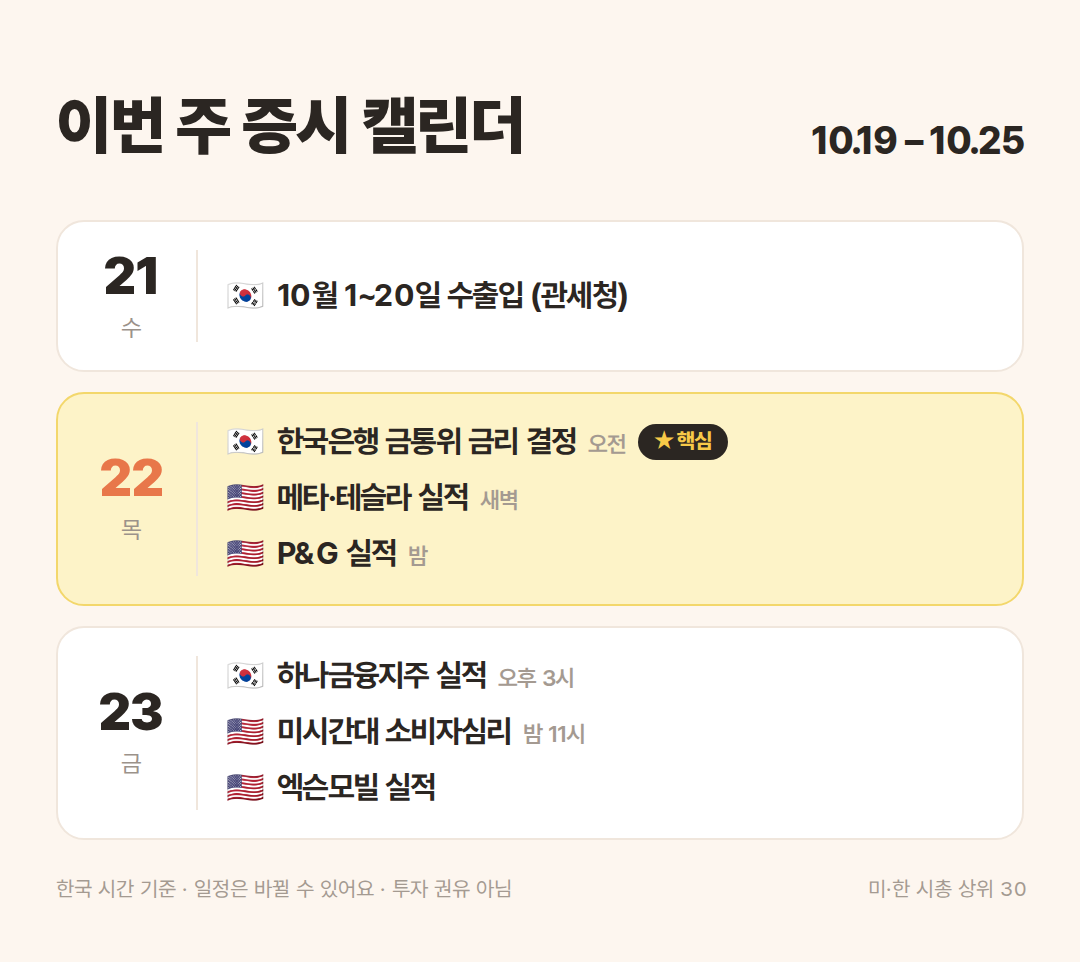
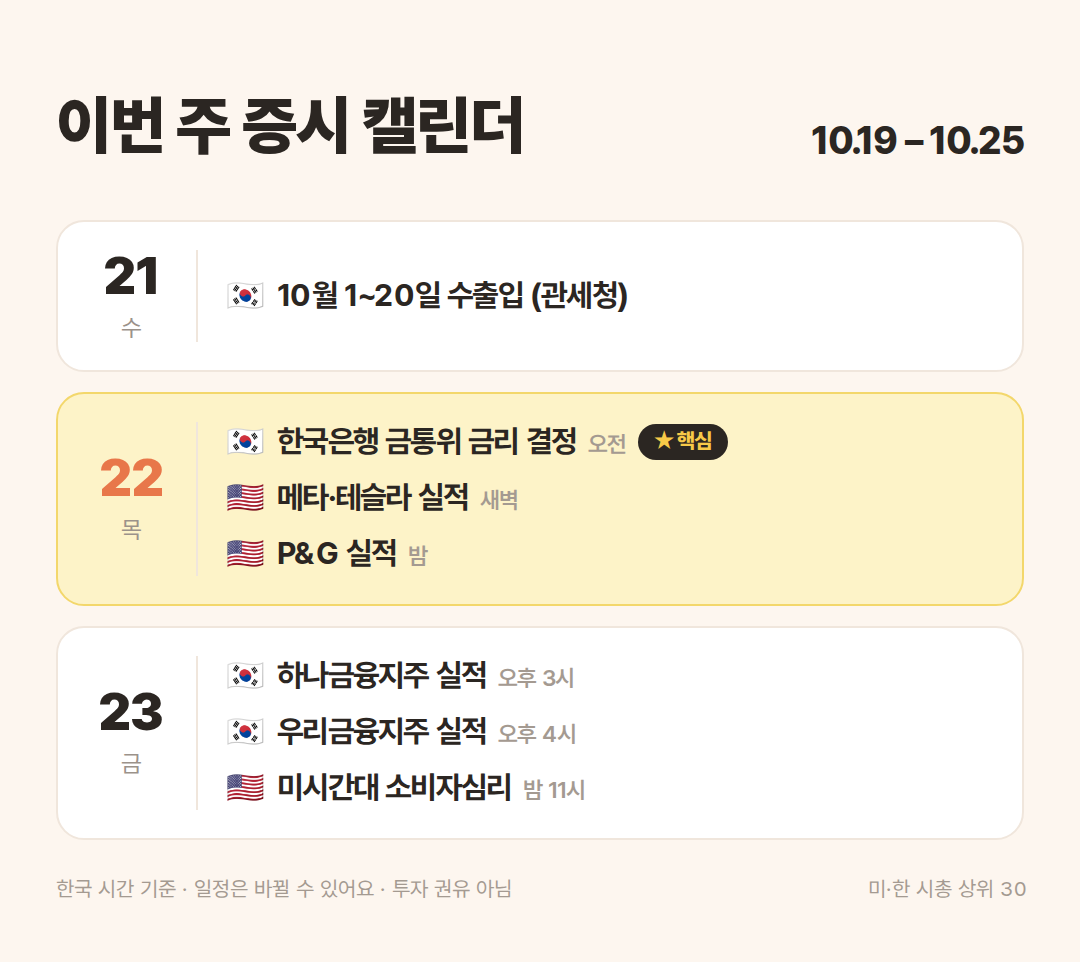
캘린더 갱신 2026-10-21

Changed region(s): [[0.2139, 0.7484, 0.55, 0.842]]

diff --git a/docs/2026-10-19/index.html b/docs/2026-10-19/index.html
@@ -46,16 +46,16 @@ tr.out{color:var(--sub)}
 </style></head><body>
 <div id="card">
 <div class="head"><h1>이번 주 증시 캘린더</h1><div class="range">10.19 – 10.25</div></div>
-<a class="card" href="#d2026-10-21"><div class="day"><div class="dn">21</div><div class="dw">수</div></div><div class="evs"><div class="ev"><span class="flag">🇰🇷</span><span class="ti">10월 1~20일 수출입 (관세청)</span></div></div></a><a class="card hot" href="#d2026-10-22"><div class="day"><div class="dn">22</div><div class="dw">목</div></div><div class="evs"><div class="ev"><span class="flag">🇰🇷</span><span class="ti">한국은행 금통위 금리 결정</span><span class="t">오전</span><span class="badge">★ 핵심</span></div><div class="ev"><span class="flag">🇺🇸</span><span class="ti">메타·테슬라 실적</span><span class="t">새벽</span></div><div class="ev"><span class="flag">🇺🇸</span><span class="ti">P&amp;G 실적</span><span class="t">밤</span></div></div></a><a class="card" href="#d2026-10-23"><div class="day"><div class="dn">23</div><div class="dw">금</div></div><div class="evs"><div class="ev"><span class="flag">🇰🇷</span><span class="ti">하나금융지주 실적</span><span class="t">오후 3시</span></div><div class="ev"><span class="flag">🇺🇸</span><span class="ti">미시간대 소비자심리</span><span class="t">밤 11시</span></div><div class="ev"><span class="flag">🇺🇸</span><span class="ti">엑슨모빌 실적</span></div></div></a>
+<a class="card" href="#d2026-10-21"><div class="day"><div class="dn">21</div><div class="dw">수</div></div><div class="evs"><div class="ev"><span class="flag">🇰🇷</span><span class="ti">10월 1~20일 수출입 (관세청)</span></div></div></a><a class="card hot" href="#d2026-10-22"><div class="day"><div class="dn">22</div><div class="dw">목</div></div><div class="evs"><div class="ev"><span class="flag">🇰🇷</span><span class="ti">한국은행 금통위 금리 결정</span><span class="t">오전</span><span class="badge">★ 핵심</span></div><div class="ev"><span class="flag">🇺🇸</span><span class="ti">메타·테슬라 실적</span><span class="t">새벽</span></div><div class="ev"><span class="flag">🇺🇸</span><span class="ti">P&amp;G 실적</span><span class="t">밤</span></div></div></a><a class="card" href="#d2026-10-23"><div class="day"><div class="dn">23</div><div class="dw">금</div></div><div class="evs"><div class="ev"><span class="flag">🇰🇷</span><span class="ti">하나금융지주 실적</span><span class="t">오후 3시</span></div><div class="ev"><span class="flag">🇰🇷</span><span class="ti">우리금융지주 실적</span><span class="t">오후 4시</span></div><div class="ev"><span class="flag">🇺🇸</span><span class="ti">미시간대 소비자심리</span><span class="t">밤 11시</span></div></div></a>
 <div class="foot"><span>한국 시간 기준 · 일정은 바뀔 수 있어요 · 투자 권유 아님</span><span>미·한 시총 상위 30</span></div>
 </div>
 <main>
-<section id="d2026-10-21"><h2>10월 21일 (수)</h2><div class="row"><span class="flag">🇰🇷</span><div class="rb"><div class="rt">10월 1~20일 수출입 (관세청)</div><div class="rd">정기 발표일 규칙으로 계산 (공휴일은 반영 안 됨)</div></div><a class="src" href="https://www.customs.go.kr" target="_blank" rel="noopener">원문 ↗</a></div></section><section id="d2026-10-22"><h2>10월 22일 (목)</h2><div class="row"><span class="flag">🇰🇷</span><div class="rb"><div class="rt">한국은행 금통위 금리 결정 <span class="t">오전</span> <span class="badge">★ 핵심</span></div><div class="rd">통화정책방향 결정 후 오전 11시 10분 총재 기자간담회</div></div><a class="src" href="https://www.bok.or.kr/portal/main/main.do" target="_blank" rel="noopener">원문 ↗</a></div><div class="row"><span class="flag">🇺🇸</span><div class="rb"><div class="rt">메타 실적 <span class="t">새벽</span></div><div class="rd">미국 장 마감 후 · EPS 예상 $6.00 · 매출 예상 $64.7B</div></div><a class="src" href="https://www.nasdaq.com/market-activity/stocks/meta/earnings" target="_blank" rel="noopener">원문 ↗</a></div><div class="row"><span class="flag">🇺🇸</span><div class="rb"><div class="rt">테슬라 실적 <span class="t">새벽</span></div><div class="rd">미국 장 마감 후 · EPS 예상 $0.44 · 매출 예상 $28.4B</div></div><a class="src" href="https://www.nasdaq.com/market-activity/stocks/tsla/earnings" target="_blank" rel="noopener">원문 ↗</a></div><div class="row"><span class="flag">🇺🇸</span><div class="rb"><div class="rt">P&amp;G 실적 <span class="t">밤</span></div><div class="rd">미국 장 시작 전 · EPS 예상 $1.94 · 매출 예상 $23.5B</div></div><a class="src" href="https://www.nasdaq.com/market-activity/stocks/pg/earnings" target="_blank" rel="noopener">원문 ↗</a></div></section><section id="d2026-10-23"><h2>10월 23일 (금)</h2><div class="row"><span class="flag">🇰🇷</span><div class="rb"><div class="rt">하나금융지주 실적 <span class="t">오후 3시</span></div><div class="rd">2026년도 3분기 경영실적 발표 · 인터넷 영상 생중계를 통한 경영실적 발표 및 질의응답</div></div><a class="src" href="https://dart.fss.or.kr/dsaf001/main.do?rcpNo=20261015800202" target="_blank" rel="noopener">원문 ↗</a></div><div class="row"><span class="flag">🇺🇸</span><div class="rb"><div class="rt">미시간대 소비자심리 <span class="t">밤 11시</span></div><div class="rd">미 동부 10:00 발표 · Surveys of Consumers</div></div><a class="src" href="https://fred.stlouisfed.org/release?rid=91" target="_blank" rel="noopener">원문 ↗</a></div><div class="row"><span class="flag">🇺🇸</span><div class="rb"><div class="rt">엑슨모빌 실적</div><div class="rd">시간 미정 · EPS 예상 $4.11 · 매출 예상 $103.5B</div></div><a class="src" href="https://www.nasdaq.com/market-activity/stocks/xom/earnings" target="_blank" rel="noopener">원문 ↗</a></div></section>
+<section id="d2026-10-21"><h2>10월 21일 (수)</h2><div class="row"><span class="flag">🇰🇷</span><div class="rb"><div class="rt">10월 1~20일 수출입 (관세청)</div><div class="rd">정기 발표일 규칙으로 계산 (공휴일은 반영 안 됨)</div></div><a class="src" href="https://www.customs.go.kr" target="_blank" rel="noopener">원문 ↗</a></div></section><section id="d2026-10-22"><h2>10월 22일 (목)</h2><div class="row"><span class="flag">🇰🇷</span><div class="rb"><div class="rt">한국은행 금통위 금리 결정 <span class="t">오전</span> <span class="badge">★ 핵심</span></div><div class="rd">통화정책방향 결정 후 오전 11시 10분 총재 기자간담회</div></div><a class="src" href="https://www.bok.or.kr/portal/main/main.do" target="_blank" rel="noopener">원문 ↗</a></div><div class="row"><span class="flag">🇺🇸</span><div class="rb"><div class="rt">메타 실적 <span class="t">새벽</span></div><div class="rd">미국 장 마감 후 · EPS 예상 $6.00 · 매출 예상 $64.7B</div></div><a class="src" href="https://www.nasdaq.com/market-activity/stocks/meta/earnings" target="_blank" rel="noopener">원문 ↗</a></div><div class="row"><span class="flag">🇺🇸</span><div class="rb"><div class="rt">테슬라 실적 <span class="t">새벽</span></div><div class="rd">미국 장 마감 후 · EPS 예상 $0.44 · 매출 예상 $28.4B</div></div><a class="src" href="https://www.nasdaq.com/market-activity/stocks/tsla/earnings" target="_blank" rel="noopener">원문 ↗</a></div><div class="row"><span class="flag">🇺🇸</span><div class="rb"><div class="rt">P&amp;G 실적 <span class="t">밤</span></div><div class="rd">미국 장 시작 전 · EPS 예상 $1.94 · 매출 예상 $23.5B</div></div><a class="src" href="https://www.nasdaq.com/market-activity/stocks/pg/earnings" target="_blank" rel="noopener">원문 ↗</a></div></section><section id="d2026-10-23"><h2>10월 23일 (금)</h2><div class="row"><span class="flag">🇰🇷</span><div class="rb"><div class="rt">하나금융지주 실적 <span class="t">오후 3시</span></div><div class="rd">2026년도 3분기 경영실적 발표 · 인터넷 영상 생중계를 통한 경영실적 발표 및 질의응답</div></div><a class="src" href="https://dart.fss.or.kr/dsaf001/main.do?rcpNo=20261015800202" target="_blank" rel="noopener">원문 ↗</a></div><div class="row"><span class="flag">🇰🇷</span><div class="rb"><div class="rt">우리금융지주 실적 <span class="t">오후 4시</span></div><div class="rd">2026년 3분기 경영실적 발표 · 오디오 인터넷 생중계 및 컨퍼런스콜을 통한 경영실적 발</div></div><a class="src" href="https://dart.fss.or.kr/dsaf001/main.do?rcpNo=20261020800482" target="_blank" rel="noopener">원문 ↗</a></div><div class="row"><span class="flag">🇺🇸</span><div class="rb"><div class="rt">미시간대 소비자심리 <span class="t">밤 11시</span></div><div class="rd">미 동부 10:00 발표 · Surveys of Consumers</div></div><a class="src" href="https://fred.stlouisfed.org/release?rid=91" target="_blank" rel="noopener">원문 ↗</a></div></section>
 <h3>백데이터</h3>
-<details><summary>수집 현황</summary><div class="tw"><table><tr><th>소스</th><th>상태</th><th>건수</th><th>오류</th></tr><tr><td>미국 시총 순위 (Finnhub)</td><td>✅</td><td>63</td><td class="err"></td></tr><tr><td>한국 시총 순위 (네이버)</td><td>✅</td><td>30</td><td class="err"></td></tr><tr><td>미국 실적 (Finnhub)</td><td>✅</td><td>15</td><td class="err"></td></tr><tr><td>한국 실적 (DART)</td><td>✅</td><td>1</td><td class="err"></td></tr><tr><td>미국 경제지표 (FRED)</td><td>✅</td><td>1</td><td class="err"></td></tr><tr><td>한국 수출입 (규칙)</td><td>✅</td><td>1</td><td class="err"></td></tr><tr><td>고정 일정 (events.json)</td><td>✅</td><td>1</td><td class="err"></td></tr></table></div></details>
-<details><summary>기준에서 빠진 실적 일정 (11건)</summary><div class="tw"><table><tr><th>날짜</th><th>일정</th><th>이유</th></tr><tr><td>10-19</td><td>GE에어로스페이스 실적</td><td>미국 시총 35위</td></tr><tr><td>10-20</td><td>필립모리스 실적</td><td>미국 시총 36위</td></tr><tr><td>10-20</td><td>RTX 실적</td><td>미국 시총 40위</td></tr><tr><td>10-21</td><td>넷플릭스 실적</td><td>미국 시총 38위</td></tr><tr><td>10-21</td><td>애보트 실적</td><td>미국 시총 52위</td></tr><tr><td>10-21</td><td>AT&amp;T 실적</td><td>미국 시총 55위</td></tr><tr><td>10-21</td><td>인튜이티브서지컬 실적</td><td>미국 시총 57위</td></tr><tr><td>10-22</td><td>램리서치 실적</td><td>미국 시총 32위</td></tr><tr><td>10-22</td><td>IBM 실적</td><td>미국 시총 45위</td></tr><tr><td>10-22</td><td>블랙스톤 실적</td><td>미국 시총 60위</td></tr><tr><td>10-23</td><td>아메리칸익스프레스 실적</td><td>미국 시총 47위</td></tr></table></div></details>
-<details><summary>미국 시총 순위 (후보 63개 중 상위 30)</summary><div class="tw"><table><tr><th>#</th><th>종목</th><th>티커</th><th>시총</th></tr><tr class="in"><td>1</td><td>엔비디아</td><td>NVDA</td><td>$5,232B</td></tr><tr class="in"><td>2</td><td>애플</td><td>AAPL</td><td>$5,005B</td></tr><tr class="in"><td>3</td><td>알파벳</td><td>GOOGL</td><td>$4,209B</td></tr><tr class="in"><td>4</td><td>마이크로소프트</td><td>MSFT</td><td>$3,962B</td></tr><tr class="in"><td>5</td><td>아마존</td><td>AMZN</td><td>$2,831B</td></tr><tr class="in"><td>6</td><td>TSMC</td><td>TSM</td><td>$2,180B</td></tr><tr class="in"><td>7</td><td>메타</td><td>META</td><td>$1,797B</td></tr><tr class="in"><td>8</td><td>브로드컴</td><td>AVGO</td><td>$1,597B</td></tr><tr class="in"><td>9</td><td>테슬라</td><td>TSLA</td><td>$1,454B</td></tr><tr class="in"><td>10</td><td>일라이릴리</td><td>LLY</td><td>$1,168B</td></tr><tr class="in"><td>11</td><td>버크셔해서웨이</td><td>BRK.B</td><td>$1,140B</td></tr><tr class="in"><td>12</td><td>마이크론</td><td>MU</td><td>$1,024B</td></tr><tr class="in"><td>13</td><td>JP모건</td><td>JPM</td><td>$887B</td></tr><tr class="in"><td>14</td><td>월마트</td><td>WMT</td><td>$884B</td></tr><tr class="in"><td>15</td><td>AMD</td><td>AMD</td><td>$878B</td></tr><tr class="in"><td>16</td><td>비자</td><td>V</td><td>$750B</td></tr><tr class="in"><td>17</td><td>엑슨모빌</td><td>XOM</td><td>$651B</td></tr><tr class="in"><td>18</td><td>ASML</td><td>ASML</td><td>$639B</td></tr><tr class="in"><td>19</td><td>존슨앤드존슨</td><td>JNJ</td><td>$612B</td></tr><tr class="in"><td>20</td><td>마스터카드</td><td>MA</td><td>$540B</td></tr><tr class="in"><td>21</td><td>애브비</td><td>ABBV</td><td>$500B</td></tr><tr class="in"><td>22</td><td>인텔</td><td>INTC</td><td>$486B</td></tr><tr class="in"><td>23</td><td>팔란티어</td><td>PLTR</td><td>$467B</td></tr><tr class="in"><td>24</td><td>셰브론</td><td>CVX</td><td>$443B</td></tr><tr class="in"><td>25</td><td>코스트코</td><td>COST</td><td>$441B</td></tr><tr class="in"><td>26</td><td>시스코</td><td>CSCO</td><td>$420B</td></tr><tr class="in"><td>27</td><td>코카콜라</td><td>KO</td><td>$402B</td></tr><tr class="in"><td>28</td><td>오라클</td><td>ORCL</td><td>$392B</td></tr><tr class="in"><td>29</td><td>P&amp;G</td><td>PG</td><td>$366B</td></tr><tr class="in"><td>30</td><td>유나이티드헬스</td><td>UNH</td><td>$365B</td></tr><tr class="out"><td>31</td><td>뱅크오브아메리카</td><td>BAC</td><td>$349B</td></tr><tr class="out"><td>32</td><td>램리서치</td><td>LRCX</td><td>$341B</td></tr><tr class="out"><td>33</td><td>캐터필러</td><td>CAT</td><td>$334B</td></tr><tr class="out"><td>34</td><td>어플라이드머티어리얼즈</td><td>AMAT</td><td>$328B</td></tr><tr class="out"><td>35</td><td>GE에어로스페이스</td><td>GE</td><td>$323B</td></tr><tr class="out"><td>36</td><td>필립모리스</td><td>PM</td><td>$313B</td></tr><tr class="out"><td>37</td><td>홈디포</td><td>HD</td><td>$309B</td></tr><tr class="out"><td>38</td><td>넷플릭스</td><td>NFLX</td><td>$291B</td></tr><tr class="out"><td>39</td><td>모건스탠리</td><td>MS</td><td>$280B</td></tr><tr class="out"><td>40</td><td>RTX</td><td>RTX</td><td>$259B</td></tr><tr class="out"><td>41</td><td>웰스파고</td><td>WFC</td><td>$258B</td></tr><tr class="out"><td>42</td><td>골드만삭스</td><td>GS</td><td>$255B</td></tr><tr class="out"><td>43</td><td>린데</td><td>LIN</td><td>$232B</td></tr><tr class="out"><td>44</td><td>아리스타</td><td>ANET</td><td>$231B</td></tr><tr class="out"><td>45</td><td>IBM</td><td>IBM</td><td>$223B</td></tr><tr class="out"><td>46</td><td>KLA</td><td>KLAC</td><td>$217B</td></tr><tr class="out"><td>47</td><td>아메리칸익스프레스</td><td>AXP</td><td>$214B</td></tr><tr class="out"><td>48</td><td>세일즈포스</td><td>CRM</td><td>$200B</td></tr><tr class="out"><td>49</td><td>디즈니</td><td>DIS</td><td>$189B</td></tr><tr class="out"><td>50</td><td>퀄컴</td><td>QCOM</td><td>$185B</td></tr><tr class="out"><td>51</td><td>펩시코</td><td>PEP</td><td>$182B</td></tr><tr class="out"><td>52</td><td>애보트</td><td>ABT</td><td>$180B</td></tr><tr class="out"><td>53</td><td>맥도날드</td><td>MCD</td><td>$172B</td></tr><tr class="out"><td>54</td><td>T모바일</td><td>TMUS</td><td>$167B</td></tr><tr class="out"><td>55</td><td>AT&amp;T</td><td>T</td><td>$159B</td></tr><tr class="out"><td>56</td><td>찰스슈왑</td><td>SCHW</td><td>$155B</td></tr><tr class="out"><td>57</td><td>인튜이티브서지컬</td><td>ISRG</td><td>$153B</td></tr><tr class="out"><td>58</td><td>서비스나우</td><td>NOW</td><td>$150B</td></tr><tr class="out"><td>59</td><td>우버</td><td>UBER</td><td>$143B</td></tr><tr class="out"><td>60</td><td>블랙스톤</td><td>BX</td><td>$133B</td></tr><tr class="out"><td>61</td><td>부킹홀딩스</td><td>BKNG</td><td>$122B</td></tr><tr class="out"><td>62</td><td>앱러빈</td><td>APP</td><td>$90B</td></tr><tr class="out"><td>63</td><td>인튜이트</td><td>INTU</td><td>$87B</td></tr></table></div></details>
-<details><summary>한국 시총 상위 30 (보통주)</summary><div class="tw"><table><tr><th>#</th><th>종목</th><th>시장</th><th>시총</th></tr><tr class="in"><td>1</td><td>삼성전자</td><td>KOSPI</td><td>1,242.3조</td></tr><tr class="in"><td>2</td><td>SK하이닉스</td><td>KOSPI</td><td>879.5조</td></tr><tr class="in"><td>3</td><td>LG에너지솔루션</td><td>KOSPI</td><td>98.2조</td></tr><tr class="in"><td>4</td><td>SK스퀘어</td><td>KOSPI</td><td>97.0조</td></tr><tr class="in"><td>5</td><td>삼성전기</td><td>KOSPI</td><td>85.1조</td></tr><tr class="in"><td>6</td><td>삼성바이오로직스</td><td>KOSPI</td><td>65.2조</td></tr><tr class="in"><td>7</td><td>현대차</td><td>KOSPI</td><td>64.3조</td></tr><tr class="in"><td>8</td><td>KB금융</td><td>KOSPI</td><td>57.7조</td></tr><tr class="in"><td>9</td><td>삼성생명</td><td>KOSPI</td><td>47.5조</td></tr><tr class="in"><td>10</td><td>삼성SDI</td><td>KOSPI</td><td>46.7조</td></tr><tr class="in"><td>11</td><td>셀트리온</td><td>KOSPI</td><td>45.9조</td></tr><tr class="in"><td>12</td><td>삼성물산</td><td>KOSPI</td><td>44.4조</td></tr><tr class="in"><td>13</td><td>기아</td><td>KOSPI</td><td>44.0조</td></tr><tr class="in"><td>14</td><td>신한지주</td><td>KOSPI</td><td>43.6조</td></tr><tr class="in"><td>15</td><td>한화에어로스페이스</td><td>KOSPI</td><td>42.9조</td></tr><tr class="in"><td>16</td><td>두산에너빌리티</td><td>KOSPI</td><td>40.5조</td></tr><tr class="in"><td>17</td><td>HD현대중공업</td><td>KOSPI</td><td>34.2조</td></tr><tr class="in"><td>18</td><td>하나금융지주</td><td>KOSPI</td><td>33.6조</td></tr><tr class="in"><td>19</td><td>현대모비스</td><td>KOSPI</td><td>31.5조</td></tr><tr class="in"><td>20</td><td>SK</td><td>KOSPI</td><td>31.1조</td></tr><tr class="in"><td>21</td><td>NAVER</td><td>KOSPI</td><td>27.2조</td></tr><tr class="in"><td>22</td><td>삼성화재</td><td>KOSPI</td><td>26.9조</td></tr><tr class="in"><td>23</td><td>LG전자</td><td>KOSPI</td><td>26.7조</td></tr><tr class="in"><td>24</td><td>SK이노베이션</td><td>KOSPI</td><td>26.0조</td></tr><tr class="in"><td>25</td><td>POSCO홀딩스</td><td>KOSPI</td><td>24.2조</td></tr><tr class="in"><td>26</td><td>우리금융지주</td><td>KOSPI</td><td>23.7조</td></tr><tr class="in"><td>27</td><td>LS ELECTRIC</td><td>KOSPI</td><td>22.9조</td></tr><tr class="in"><td>28</td><td>HMM</td><td>KOSPI</td><td>22.1조</td></tr><tr class="in"><td>29</td><td>메리츠금융지주</td><td>KOSPI</td><td>21.9조</td></tr><tr class="in"><td>30</td><td>KT&amp;G</td><td>KOSPI</td><td>20.2조</td></tr></table></div></details>
-<div class="meta"><span>업데이트 2026-10-20 09:54 KST</span><span><a href="data.json">data.json</a> · <a href="../">지난 캘린더</a></span></div>
+<details><summary>수집 현황</summary><div class="tw"><table><tr><th>소스</th><th>상태</th><th>건수</th><th>오류</th></tr><tr><td>미국 시총 순위 (Finnhub)</td><td>✅</td><td>63</td><td class="err"></td></tr><tr><td>한국 시총 순위 (네이버)</td><td>✅</td><td>30</td><td class="err"></td></tr><tr><td>미국 실적 (Finnhub)</td><td>✅</td><td>14</td><td class="err"></td></tr><tr><td>한국 실적 (DART)</td><td>✅</td><td>2</td><td class="err"></td></tr><tr><td>미국 경제지표 (FRED)</td><td>✅</td><td>1</td><td class="err"></td></tr><tr><td>한국 수출입 (규칙)</td><td>✅</td><td>1</td><td class="err"></td></tr><tr><td>고정 일정 (events.json)</td><td>✅</td><td>1</td><td class="err"></td></tr></table></div></details>
+<details><summary>기준에서 빠진 실적 일정 (11건)</summary><div class="tw"><table><tr><th>날짜</th><th>일정</th><th>이유</th></tr><tr><td>10-19</td><td>GE에어로스페이스 실적</td><td>미국 시총 37위</td></tr><tr><td>10-20</td><td>필립모리스 실적</td><td>미국 시총 36위</td></tr><tr><td>10-20</td><td>RTX 실적</td><td>미국 시총 40위</td></tr><tr><td>10-21</td><td>넷플릭스 실적</td><td>미국 시총 38위</td></tr><tr><td>10-21</td><td>애보트 실적</td><td>미국 시총 52위</td></tr><tr><td>10-21</td><td>AT&amp;T 실적</td><td>미국 시총 55위</td></tr><tr><td>10-21</td><td>인튜이티브서지컬 실적</td><td>미국 시총 57위</td></tr><tr><td>10-22</td><td>램리서치 실적</td><td>미국 시총 33위</td></tr><tr><td>10-22</td><td>IBM 실적</td><td>미국 시총 45위</td></tr><tr><td>10-22</td><td>블랙스톤 실적</td><td>미국 시총 60위</td></tr><tr><td>10-23</td><td>아메리칸익스프레스 실적</td><td>미국 시총 46위</td></tr></table></div></details>
+<details><summary>미국 시총 순위 (후보 63개 중 상위 30)</summary><div class="tw"><table><tr><th>#</th><th>종목</th><th>티커</th><th>시총</th></tr><tr class="in"><td>1</td><td>엔비디아</td><td>NVDA</td><td>$5,217B</td></tr><tr class="in"><td>2</td><td>애플</td><td>AAPL</td><td>$4,955B</td></tr><tr class="in"><td>3</td><td>알파벳</td><td>GOOGL</td><td>$4,162B</td></tr><tr class="in"><td>4</td><td>마이크로소프트</td><td>MSFT</td><td>$3,949B</td></tr><tr class="in"><td>5</td><td>아마존</td><td>AMZN</td><td>$2,833B</td></tr><tr class="in"><td>6</td><td>TSMC</td><td>TSM</td><td>$2,205B</td></tr><tr class="in"><td>7</td><td>메타</td><td>META</td><td>$1,769B</td></tr><tr class="in"><td>8</td><td>브로드컴</td><td>AVGO</td><td>$1,596B</td></tr><tr class="in"><td>9</td><td>테슬라</td><td>TSLA</td><td>$1,477B</td></tr><tr class="in"><td>10</td><td>일라이릴리</td><td>LLY</td><td>$1,208B</td></tr><tr class="in"><td>11</td><td>버크셔해서웨이</td><td>BRK.B</td><td>$1,155B</td></tr><tr class="in"><td>12</td><td>마이크론</td><td>MU</td><td>$1,014B</td></tr><tr class="in"><td>13</td><td>JP모건</td><td>JPM</td><td>$891B</td></tr><tr class="in"><td>14</td><td>월마트</td><td>WMT</td><td>$884B</td></tr><tr class="in"><td>15</td><td>AMD</td><td>AMD</td><td>$873B</td></tr><tr class="in"><td>16</td><td>비자</td><td>V</td><td>$760B</td></tr><tr class="in"><td>17</td><td>엑슨모빌</td><td>XOM</td><td>$651B</td></tr><tr class="in"><td>18</td><td>ASML</td><td>ASML</td><td>$633B</td></tr><tr class="in"><td>19</td><td>존슨앤드존슨</td><td>JNJ</td><td>$625B</td></tr><tr class="in"><td>20</td><td>마스터카드</td><td>MA</td><td>$544B</td></tr><tr class="in"><td>21</td><td>애브비</td><td>ABBV</td><td>$511B</td></tr><tr class="in"><td>22</td><td>인텔</td><td>INTC</td><td>$485B</td></tr><tr class="in"><td>23</td><td>팔란티어</td><td>PLTR</td><td>$463B</td></tr><tr class="in"><td>24</td><td>셰브론</td><td>CVX</td><td>$446B</td></tr><tr class="in"><td>25</td><td>코스트코</td><td>COST</td><td>$441B</td></tr><tr class="in"><td>26</td><td>시스코</td><td>CSCO</td><td>$421B</td></tr><tr class="in"><td>27</td><td>코카콜라</td><td>KO</td><td>$402B</td></tr><tr class="in"><td>28</td><td>오라클</td><td>ORCL</td><td>$396B</td></tr><tr class="in"><td>29</td><td>유나이티드헬스</td><td>UNH</td><td>$376B</td></tr><tr class="in"><td>30</td><td>P&amp;G</td><td>PG</td><td>$370B</td></tr><tr class="out"><td>31</td><td>뱅크오브아메리카</td><td>BAC</td><td>$351B</td></tr><tr class="out"><td>32</td><td>캐터필러</td><td>CAT</td><td>$333B</td></tr><tr class="out"><td>33</td><td>램리서치</td><td>LRCX</td><td>$330B</td></tr><tr class="out"><td>34</td><td>어플라이드머티어리얼즈</td><td>AMAT</td><td>$321B</td></tr><tr class="out"><td>35</td><td>홈디포</td><td>HD</td><td>$314B</td></tr><tr class="out"><td>36</td><td>필립모리스</td><td>PM</td><td>$312B</td></tr><tr class="out"><td>37</td><td>GE에어로스페이스</td><td>GE</td><td>$311B</td></tr><tr class="out"><td>38</td><td>넷플릭스</td><td>NFLX</td><td>$286B</td></tr><tr class="out"><td>39</td><td>모건스탠리</td><td>MS</td><td>$283B</td></tr><tr class="out"><td>40</td><td>RTX</td><td>RTX</td><td>$261B</td></tr><tr class="out"><td>41</td><td>웰스파고</td><td>WFC</td><td>$258B</td></tr><tr class="out"><td>42</td><td>골드만삭스</td><td>GS</td><td>$258B</td></tr><tr class="out"><td>43</td><td>린데</td><td>LIN</td><td>$231B</td></tr><tr class="out"><td>44</td><td>아리스타</td><td>ANET</td><td>$228B</td></tr><tr class="out"><td>45</td><td>IBM</td><td>IBM</td><td>$228B</td></tr><tr class="out"><td>46</td><td>아메리칸익스프레스</td><td>AXP</td><td>$215B</td></tr><tr class="out"><td>47</td><td>KLA</td><td>KLAC</td><td>$211B</td></tr><tr class="out"><td>48</td><td>세일즈포스</td><td>CRM</td><td>$200B</td></tr><tr class="out"><td>49</td><td>디즈니</td><td>DIS</td><td>$193B</td></tr><tr class="out"><td>50</td><td>퀄컴</td><td>QCOM</td><td>$188B</td></tr><tr class="out"><td>51</td><td>펩시코</td><td>PEP</td><td>$183B</td></tr><tr class="out"><td>52</td><td>애보트</td><td>ABT</td><td>$177B</td></tr><tr class="out"><td>53</td><td>맥도날드</td><td>MCD</td><td>$174B</td></tr><tr class="out"><td>54</td><td>T모바일</td><td>TMUS</td><td>$169B</td></tr><tr class="out"><td>55</td><td>AT&amp;T</td><td>T</td><td>$160B</td></tr><tr class="out"><td>56</td><td>찰스슈왑</td><td>SCHW</td><td>$157B</td></tr><tr class="out"><td>57</td><td>인튜이티브서지컬</td><td>ISRG</td><td>$155B</td></tr><tr class="out"><td>58</td><td>서비스나우</td><td>NOW</td><td>$155B</td></tr><tr class="out"><td>59</td><td>우버</td><td>UBER</td><td>$141B</td></tr><tr class="out"><td>60</td><td>블랙스톤</td><td>BX</td><td>$137B</td></tr><tr class="out"><td>61</td><td>부킹홀딩스</td><td>BKNG</td><td>$123B</td></tr><tr class="out"><td>62</td><td>앱러빈</td><td>APP</td><td>$91B</td></tr><tr class="out"><td>63</td><td>인튜이트</td><td>INTU</td><td>$90B</td></tr></table></div></details>
+<details><summary>한국 시총 상위 30 (보통주)</summary><div class="tw"><table><tr><th>#</th><th>종목</th><th>시장</th><th>시총</th></tr><tr class="in"><td>1</td><td>삼성전자</td><td>KOSPI</td><td>1,292.0조</td></tr><tr class="in"><td>2</td><td>SK하이닉스</td><td>KOSPI</td><td>946.7조</td></tr><tr class="in"><td>3</td><td>SK스퀘어</td><td>KOSPI</td><td>103.0조</td></tr><tr class="in"><td>4</td><td>LG에너지솔루션</td><td>KOSPI</td><td>97.2조</td></tr><tr class="in"><td>5</td><td>삼성전기</td><td>KOSPI</td><td>89.0조</td></tr><tr class="in"><td>6</td><td>삼성바이오로직스</td><td>KOSPI</td><td>64.9조</td></tr><tr class="in"><td>7</td><td>현대차</td><td>KOSPI</td><td>63.0조</td></tr><tr class="in"><td>8</td><td>KB금융</td><td>KOSPI</td><td>56.7조</td></tr><tr class="in"><td>9</td><td>삼성생명</td><td>KOSPI</td><td>48.4조</td></tr><tr class="in"><td>10</td><td>삼성물산</td><td>KOSPI</td><td>46.9조</td></tr><tr class="in"><td>11</td><td>셀트리온</td><td>KOSPI</td><td>46.1조</td></tr><tr class="in"><td>12</td><td>삼성SDI</td><td>KOSPI</td><td>45.7조</td></tr><tr class="in"><td>13</td><td>기아</td><td>KOSPI</td><td>43.4조</td></tr><tr class="in"><td>14</td><td>신한지주</td><td>KOSPI</td><td>42.6조</td></tr><tr class="in"><td>15</td><td>한화에어로스페이스</td><td>KOSPI</td><td>41.4조</td></tr><tr class="in"><td>16</td><td>두산에너빌리티</td><td>KOSPI</td><td>40.9조</td></tr><tr class="in"><td>17</td><td>SK</td><td>KOSPI</td><td>33.8조</td></tr><tr class="in"><td>18</td><td>HD현대중공업</td><td>KOSPI</td><td>33.4조</td></tr><tr class="in"><td>19</td><td>하나금융지주</td><td>KOSPI</td><td>32.7조</td></tr><tr class="in"><td>20</td><td>현대모비스</td><td>KOSPI</td><td>31.2조</td></tr><tr class="in"><td>21</td><td>NAVER</td><td>KOSPI</td><td>27.3조</td></tr><tr class="in"><td>22</td><td>삼성화재</td><td>KOSPI</td><td>27.0조</td></tr><tr class="in"><td>23</td><td>LG전자</td><td>KOSPI</td><td>26.8조</td></tr><tr class="in"><td>24</td><td>SK이노베이션</td><td>KOSPI</td><td>25.3조</td></tr><tr class="in"><td>25</td><td>LS ELECTRIC</td><td>KOSPI</td><td>24.3조</td></tr><tr class="in"><td>26</td><td>POSCO홀딩스</td><td>KOSPI</td><td>24.1조</td></tr><tr class="in"><td>27</td><td>우리금융지주</td><td>KOSPI</td><td>23.2조</td></tr><tr class="in"><td>28</td><td>HMM</td><td>KOSPI</td><td>21.9조</td></tr><tr class="in"><td>29</td><td>메리츠금융지주</td><td>KOSPI</td><td>21.6조</td></tr><tr class="in"><td>30</td><td>KT&amp;G</td><td>KOSPI</td><td>20.1조</td></tr></table></div></details>
+<div class="meta"><span>업데이트 2026-10-21 09:22 KST</span><span><a href="data.json">data.json</a> · <a href="../">지난 캘린더</a></span></div>
 </main>
 </body></html>
